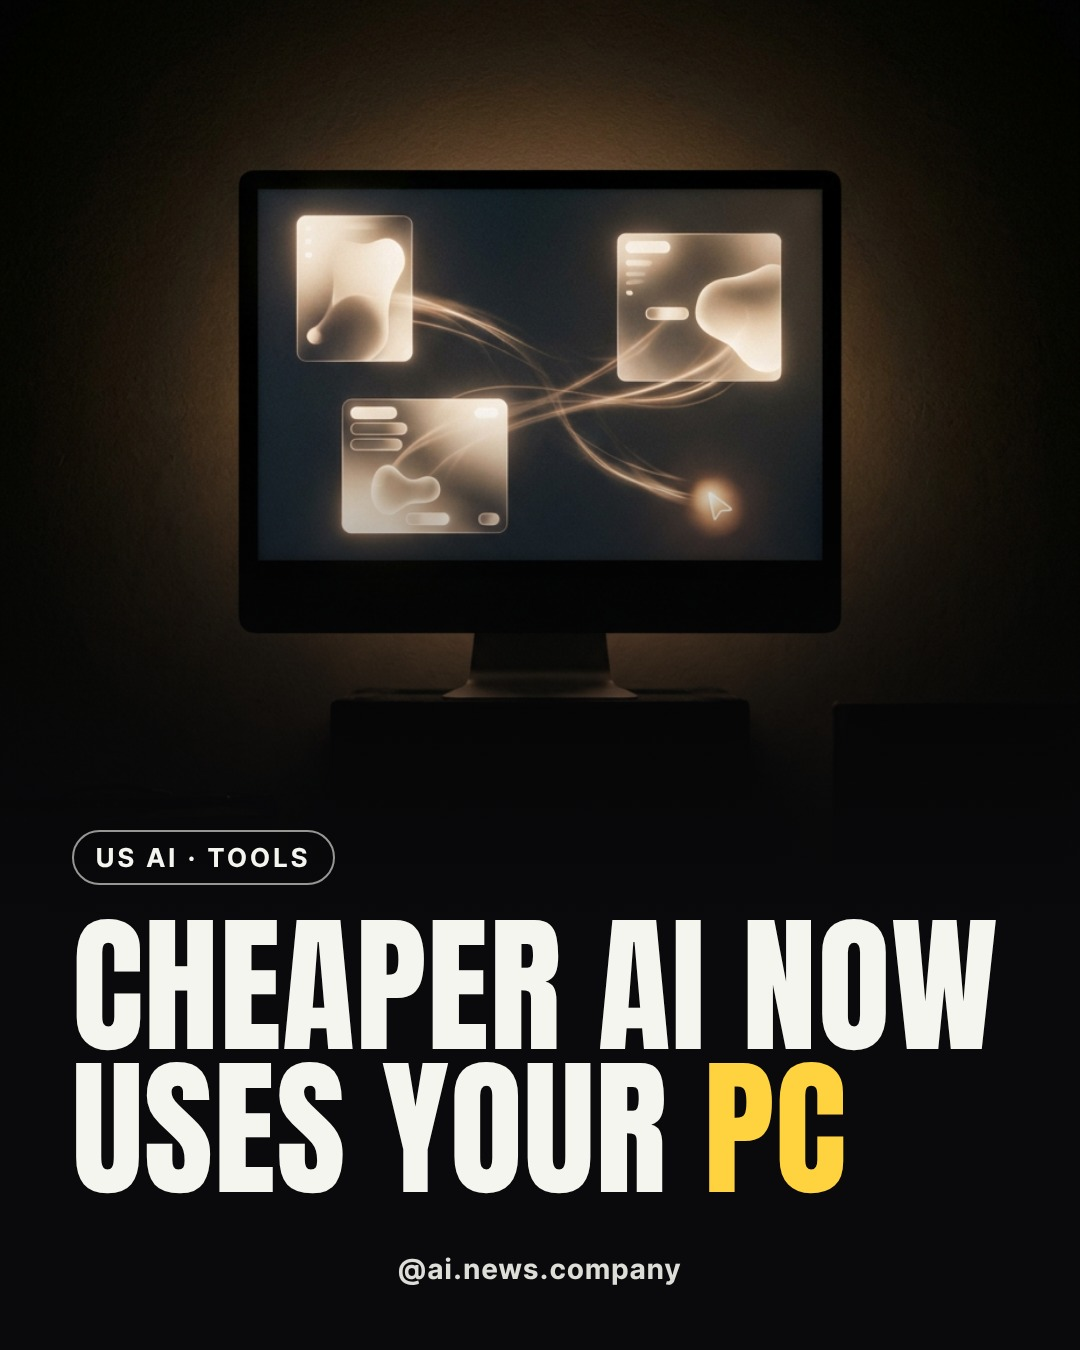
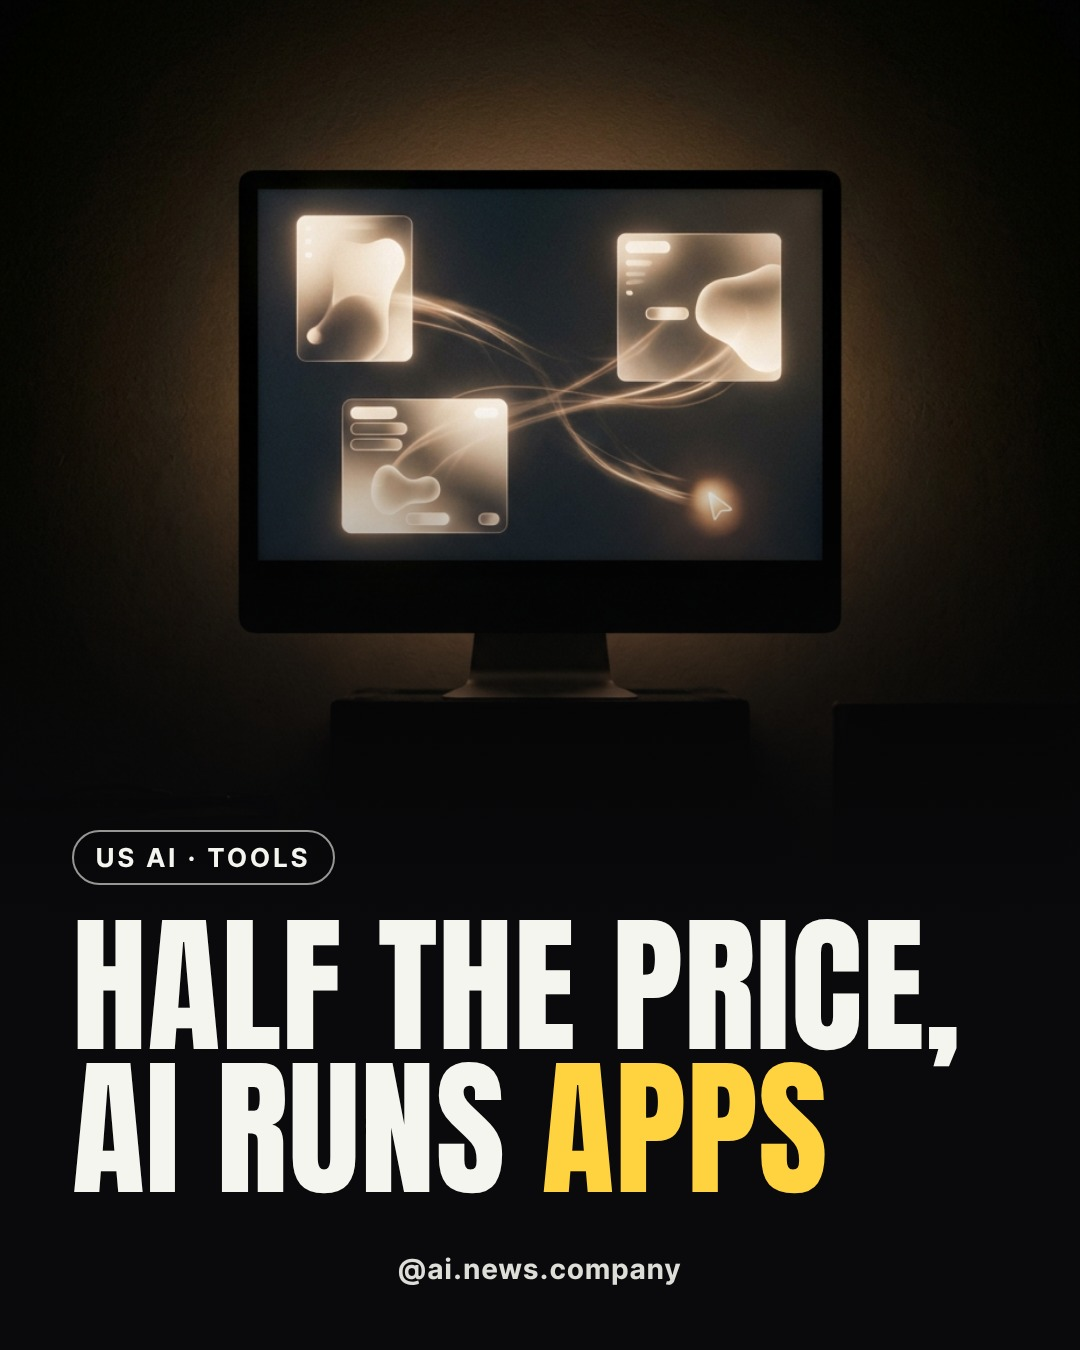
wip: terra revision, cohere ready
Claude-Session: https://claude.ai/code/session_01HGJzPNSVWHxiohKau7KKPh

Changed region(s): [[0.0611, 0.6533, 0.9472, 0.9022]]

diff --git a/posts/2026-10-27-openai-gpt-6-1-terra/review-brand.md b/posts/2026-10-27-openai-gpt-6-1-terra/review-brand.md
@@ -1,0 +1,16 @@
+# Brand/safety review: 2026-10-27-openai-gpt-6-1-terra
+
+Verdict: PASS
+
+Checks
+- Cover image (cover.png, slides/01.jpg): AI-generated monitor scene, no person, no recognizable logo, no readable text. OK.
+- Reference-account copying: none seen. Wording and layout are original.
+- Outlet credit: caption, threads_caption and slide 7 all credit The Next Web with article title. OK.
+- Affiliate/referral/tracking/sponsored links: none in slides, caption or threads_caption. OK.
+- Colors and fonts: slides 1, 6, 7 checked; only ink, paper, muted, accent, line; Anton cover, Inter Tight elsewhere. Accent use within limits. OK.
+- Tone: neutral, no mocking. OpenAI's claims labeled as its own untested figures. OK.
+- Hook vs slides: supported.
+
+Issues (non-blocking)
+- Hook "USES YOUR PC" is slightly loose. Slides say it clicks, types and moves between apps, not that it runs on the reader's PC.
+- Slides 2-5 were not visually inspected; text content was checked in post.json.
